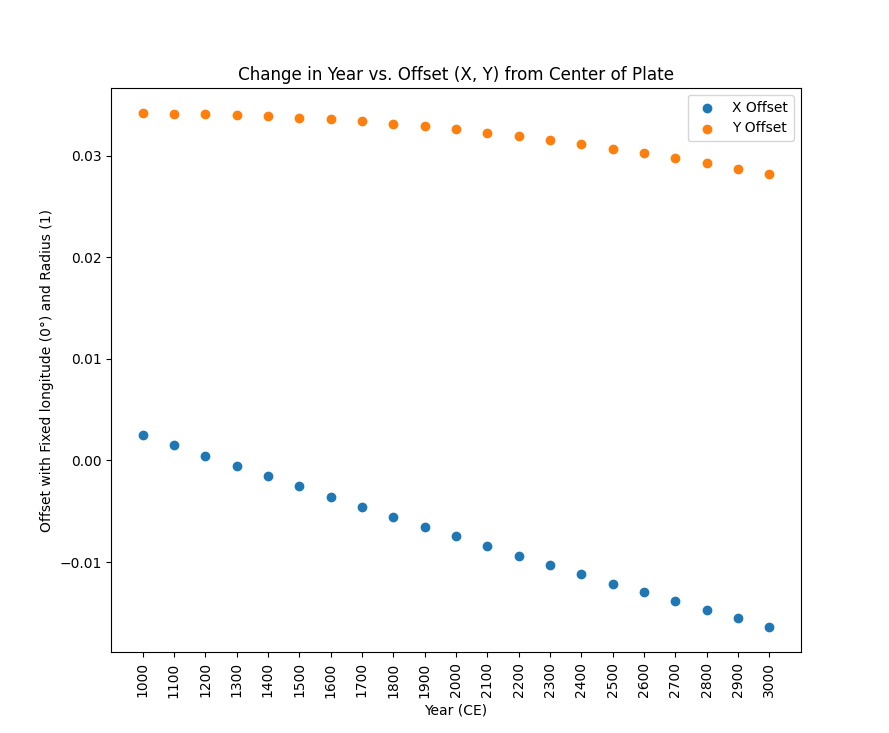
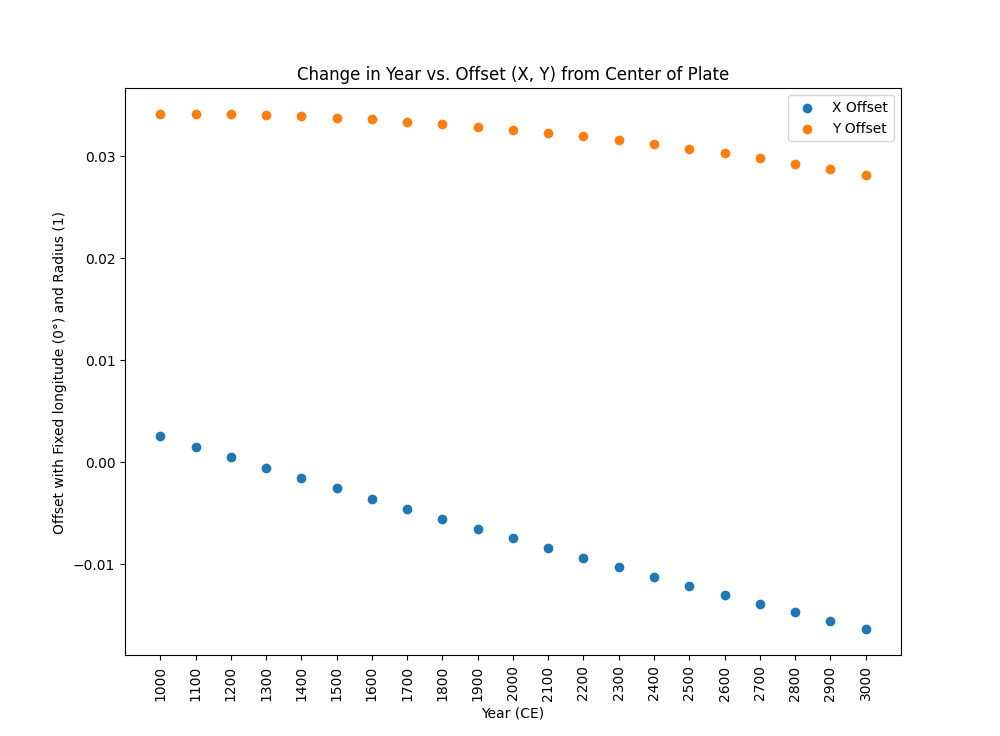
update eccentric calendar for 2026

diff --git a/page_21_astrolabe/calculate_eccentric_calendar_offset.py b/page_21_astrolabe/calculate_eccentric_calendar_offset.py
@@ -7,7 +7,7 @@ import configparser
 import logging
 import matplotlib.pyplot as plt
 
-yearToCalculate = 2025 # Year (YYYY) in CE
+yearToCalculate = 2026 # Year (YYYY) in CE
 
 def determineApside(julian_time):
 	# Define the line of apsides (longitude of aphelion and perihelion)

diff --git a/README.md b/README.md
@@ -113,21 +113,21 @@ Code will generate both the angular distance from the Vernal Equinox to the Janu
 ```python calculate_eccentric_calendar_offset.py```
 
 Variables:
-1. Year to calculate (for example: 2025)
+1. Year to calculate (for example: 2026)
 2. The longitude of the observer (-71.05° for Boston, -105.27° for Boulder, 0° for Greenwich, 13.74° for Dresden)
 3. Radius of the back plate
 
 ```
-For the Year 2025 at longitude -105.2705° for a plate with a radius of 1.0
+For the Year 2026 at longitude -105.2705° for a plate with a radius of 1.0
 
-Perihelion = 103.367258°
-Aphelion   = 283.367258°
-Mean Anomaly of Jan 0 = 357.291665°
-Line of Apside relative to Vernal Equinox for Longitude -105.2705° = -79.62948862096914°
+Perihelion = 103.384456°
+Aphelion   = 283.384456°
+Mean Anomaly of Jan 0 = 357.282167°
+Line of Apside relative to Vernal Equinox for Longitude -105.2705° = -79.62178880296062°
 
-Offset due to Eccentricity with radius of 1.0 = 0.033396
-X offset with radius of 1.0 = -0.007721
-Y offset with radius of 1.0 = 0.032491
+Offset due to Eccentricity with radius of 1.0 = 0.033395
+X offset with radius of 1.0 = -0.007730
+Y offset with radius of 1.0 = 0.032488
 ```
 _How Changing the Year Changes Eccentricity_
 ![change_in_year_eccentricity+png](https://github.com/cyschneck/History-Survival-Guide/blob/master/page_21_astrolabe/calculate_eccentric_calendar_offset_outputs/eccentric_calendar_change_in_year_versus_eccentricity.png)
